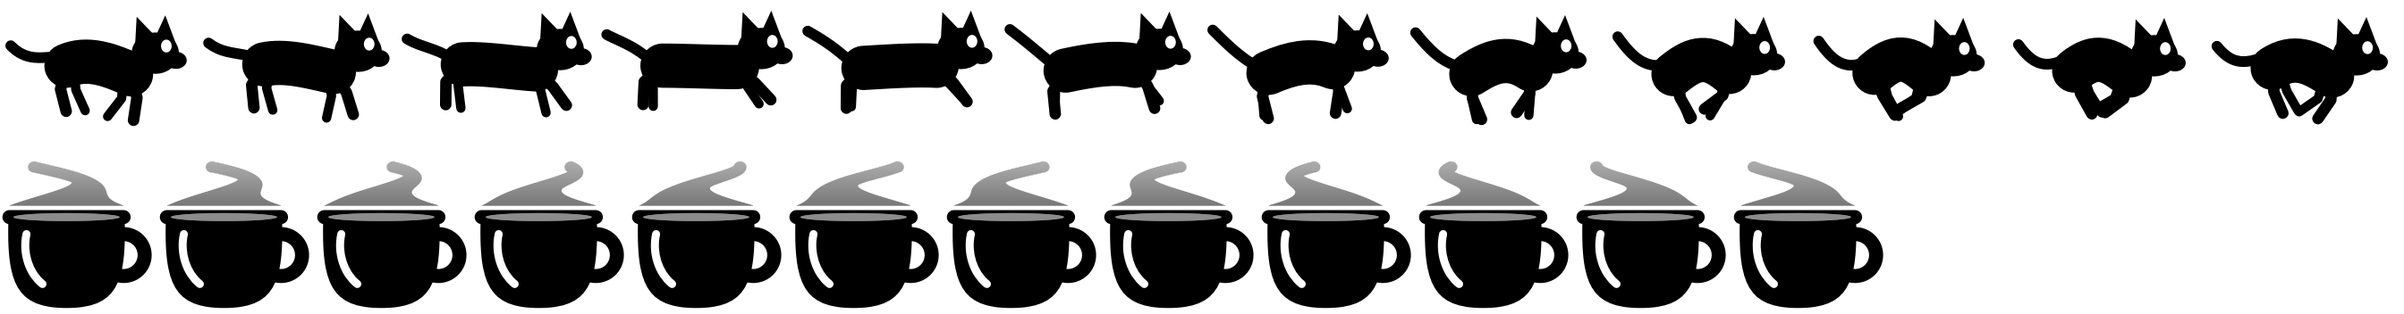
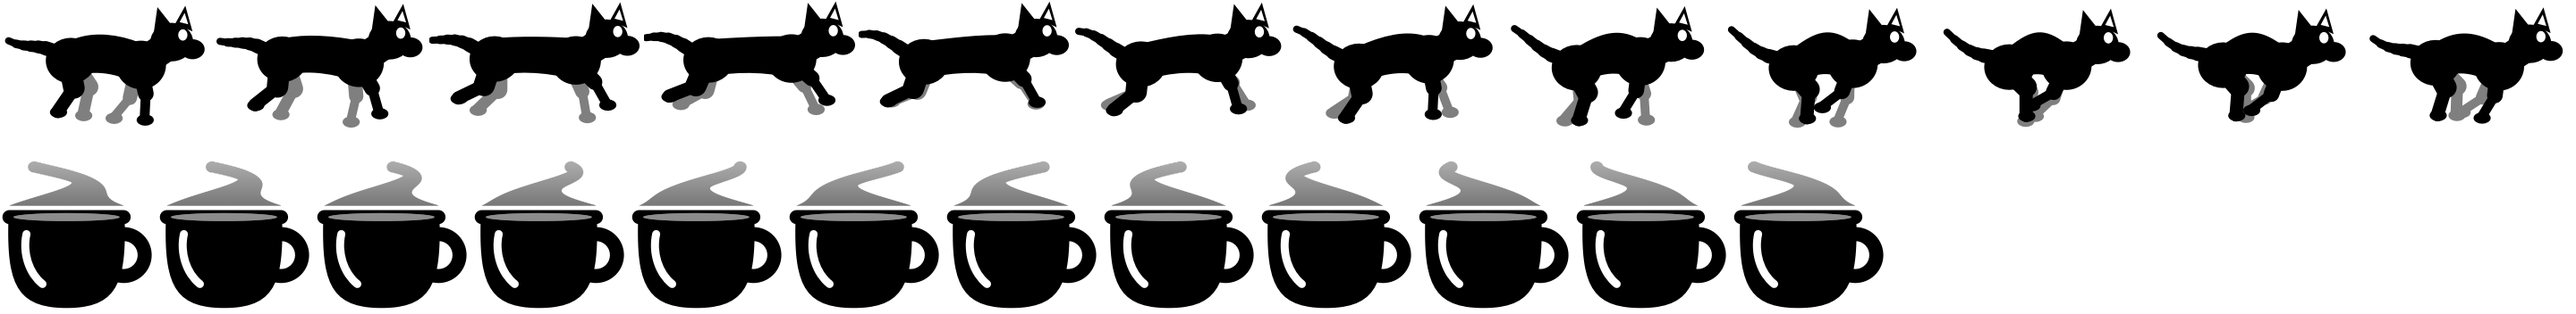
Release 1.1: DMG packaging, bilingual README, redrawn cat
- make_dmg.sh builds dist/MenuRunner-<version>.dmg with an Applications link
- LSMinimumSystemVersion 26.0 (Liquid Glass APIs), so older macOS refuses
  to launch instead of crashing
- README in English with a language switch to README.zh-CN.md
- Cat runner redrawn: chest and haunch shapes, tapered legs with paws,
  tapered tail, uniform translucent far legs

Changed region(s): [[0.0, 0.5, 0.7812, 1.0], [0.0, 0.0312, 1.0, 0.4062], [0.8438, 0.375, 0.875, 0.4062]]

diff --git a/main.swift b/main.swift
@@ -204,66 +204,95 @@ struct Runner {
     static let all: [Runner] = [cat, coffee]
 
     // 奔跑小猫
-    static let cat = Runner(id: "cat", name: "猫|Cat", frameCount: 12, size: NSSize(width: 28, height: 18)) { t in
-        // 奔跑周期：s = +1 身体完全舒展（腾空），s = -1 四腿收拢、拱背
+    static let cat = Runner(id: "cat", name: "猫|Cat", frameCount: 12, size: NSSize(width: 30, height: 18)) { t in
+        // 奔跑周期：s = +1 舒展腾空，s = -1 四腿收拢、拱背
         let s = sin(t), c = cos(t)
-        let lift = 0.5 + 0.5 * s                            // 舒展时离地更高
-        let shoulder = NSPoint(x: 18.3 + s * 0.7, y: 7.6 + lift - c * 0.5)
-        let hip      = NSPoint(x: 9.3 - s * 0.7,  y: 7.8 + lift + c * 0.5)
-        let arch = (1 - s) * 1.3                            // 收拢时拱背
+        let lift = 0.5 + 0.5 * s
+        let hip      = NSPoint(x: 10.0 - s * 0.9, y: 8.4 + lift + c * 0.4)
+        let shoulder = NSPoint(x: 19.6 + s * 0.9, y: 8.6 + lift - c * 0.4)
+        let arch = (1 - s) * 1.1
 
-        // 腿：大腿 + 小腿 + 爪，dir 决定膝盖朝向
-        func leg(_ root: NSPoint, _ angle: Double, knee bend: Double, width: CGFloat) {
-            let a1 = angle, a2 = angle + bend
-            let k = NSPoint(x: root.x + sin(a1) * 3.4, y: root.y - cos(a1) * 3.4)
-            var f = NSPoint(x: k.x + sin(a2) * 3.2, y: k.y - cos(a2) * 3.2)
-            f.y = max(0.9, f.y)
-            strokeLine([root, k, f], width)
+        // 粗细渐变的线（腿、尾巴）：沿折线逐段变细，圆头相接
+        func tapered(_ pts: [NSPoint], _ widths: [CGFloat]) {
+            for i in 0..<(pts.count - 1) {
+                let p = NSBezierPath()
+                p.lineCapStyle = .round
+                p.lineWidth = widths[i]
+                p.move(to: pts[i]); p.line(to: pts[i + 1]); p.stroke()
+            }
         }
-        // 前腿：舒展时向前伸，收拢时向后收，膝盖向后弯
-        func frontAngle(_ p: Double) -> Double { sin(p) * 0.6 + 0.25 }
-        func backAngle(_ p: Double) -> Double { -sin(p) * 0.6 - 0.25 }
-        let fa = frontAngle(t), fb = frontAngle(t - 0.6)
-        let ba = backAngle(t), bb = backAngle(t - 0.6)
-        // 远侧的腿细一点，制造前后层次
-        leg(NSPoint(x: shoulder.x - 1, y: shoulder.y), fb, knee: -0.5 * (1 - sin(t - 0.6)) * 0.6 - 0.1, width: 1.3)
-        leg(NSPoint(x: hip.x + 1, y: hip.y), bb, knee: 0.5 + 0.3 * sin(t - 0.6), width: 1.3)
+        // 腿：大腿粗 → 小腿细 → 小爪
+        func leg(_ root: NSPoint, thigh a1: Double, shin a2: Double, len: (Double, Double), w: CGFloat, far: Bool) {
+            let k = NSPoint(x: root.x + sin(a1) * len.0, y: root.y - cos(a1) * len.0)
+            var f = NSPoint(x: k.x + sin(a2) * len.1, y: k.y - cos(a2) * len.1)
+            f.y = max(1.0, f.y)
+            NSColor.black.withAlphaComponent(far ? 0.55 : 1).setStroke()
+            NSColor.black.withAlphaComponent(far ? 0.55 : 1).setFill()
+            tapered([root, k, f], [w, w * 0.62])
+            NSBezierPath(ovalIn: NSRect(x: f.x - 1.1, y: f.y - 0.9, width: 2.4, height: 1.6)).fill()   // 爪
+            NSColor.black.setStroke(); NSColor.black.setFill()
+        }
+        // 前腿：肩部向前伸 / 向后收，肘在下，腕部略向后折
+        func front(_ p: Double) -> (Double, Double) { let a = 0.2 + sin(p) * 0.65; return (a, a - 0.25 - 0.35 * max(0, -sin(p))) }
+        // 后腿：大腿向前收 / 向后蹬，跗关节向后折（猫腿特征）
+        func back(_ p: Double) -> (Double, Double) { let a = -0.15 - sin(p) * 0.6; return (a + 0.35, a - 0.45) }
 
-        // 身体：沿脊柱的粗曲线，可伸缩可拱背
-        let spine = NSBezierPath()
-        spine.lineWidth = 6.2; spine.lineCapStyle = .round
-        spine.move(to: hip)
-        spine.curve(to: shoulder,
-                    controlPoint1: NSPoint(x: hip.x + 3, y: hip.y + arch),
-                    controlPoint2: NSPoint(x: shoulder.x - 3, y: shoulder.y + arch))
-        spine.stroke()
+        // 远侧两条腿（半透明，做出前后层次）
+        let ff = front(t - 0.7), bf = back(t - 0.7)
+        let cg = NSGraphicsContext.current!.cgContext
+        cg.setAlpha(0.5)
+        cg.beginTransparencyLayer(auxiliaryInfo: nil)
+        leg(NSPoint(x: shoulder.x - 0.6, y: shoulder.y - 0.6), thigh: ff.0, shin: ff.1, len: (3.9, 3.6), w: 2.0, far: false)
+        leg(NSPoint(x: hip.x + 0.4, y: hip.y - 0.4), thigh: bf.0, shin: bf.1, len: (3.7, 4.0), w: 2.6, far: false)
+        cg.endTransparencyLayer()
+        cg.setAlpha(1)
 
-        // 近侧的腿
-        leg(shoulder, fa, knee: -0.5 * (1 - s) * 0.6 - 0.1, width: 1.6)
-        leg(hip, ba, knee: 0.5 + 0.3 * s, width: 1.6)
+        // 尾巴：根部粗、尾尖细，S 形甩动
+        var tail: [NSPoint] = []
+        let tb = NSPoint(x: hip.x - 2.6, y: hip.y + 1.6)
+        for i in 0...6 {
+            let u = Double(i) / 6
+            tail.append(NSPoint(x: tb.x - u * 6.2,
+                                y: tb.y + u * 2.6 + sin(t - u * 2.2) * 1.5 * u))
+        }
+        tapered(tail, [2.0, 1.8, 1.6, 1.4, 1.2, 1.0])
 
-        // 头：跟着肩膀走，落地时轻轻点头
-        let hc = NSPoint(x: shoulder.x + 3.4, y: shoulder.y + 2.6 + c * 0.35)
-        NSBezierPath(ovalIn: NSRect(x: hc.x - 3.3, y: hc.y - 2.9, width: 6.6, height: 5.8)).fill()
-        // 吻部
-        NSBezierPath(ovalIn: NSRect(x: hc.x + 1.4, y: hc.y - 2.2, width: 3.0, height: 2.4)).fill()
-        // 耳朵（略向后倒，有奔跑感）
+        // 身体：臀部 + 胸腔两团，中间收腰；背部可拱起
+        NSBezierPath(ovalIn: NSRect(x: hip.x - 3.6, y: hip.y - 3.0, width: 7.0, height: 6.4)).fill()
+        NSBezierPath(ovalIn: NSRect(x: shoulder.x - 3.4, y: shoulder.y - 3.2, width: 7.0, height: 6.8)).fill()
+        let torso = NSBezierPath()
+        torso.move(to: NSPoint(x: hip.x, y: hip.y + 3.1))
+        torso.curve(to: NSPoint(x: shoulder.x, y: shoulder.y + 3.3),
+                    controlPoint1: NSPoint(x: hip.x + 3, y: hip.y + 3.3 + arch),
+                    controlPoint2: NSPoint(x: shoulder.x - 3, y: shoulder.y + 3.4 + arch))
+        torso.line(to: NSPoint(x: shoulder.x, y: shoulder.y - 2.6))
+        torso.curve(to: NSPoint(x: hip.x, y: hip.y - 2.2),                       // 腹部微微上收
+                    controlPoint1: NSPoint(x: shoulder.x - 3, y: shoulder.y - 1.6 + arch * 0.5),
+                    controlPoint2: NSPoint(x: hip.x + 3, y: hip.y - 1.4 + arch * 0.5))
+        torso.close(); torso.fill()
+
+        // 头：圆脑袋 + 吻部 + 竖起的耳朵，跟着肩膀点头
+        let hc = NSPoint(x: shoulder.x + 4.4, y: shoulder.y + 3.0 + c * 0.3)
+        let neck = NSBezierPath()
+        neck.lineWidth = 4.2; neck.lineCapStyle = .round
+        neck.move(to: NSPoint(x: shoulder.x + 1, y: shoulder.y + 1)); neck.line(to: hc); neck.stroke()
+        NSBezierPath(ovalIn: NSRect(x: hc.x - 3.0, y: hc.y - 2.6, width: 6.0, height: 5.4)).fill()
+        NSBezierPath(ovalIn: NSRect(x: hc.x + 1.2, y: hc.y - 2.3, width: 3.4, height: 2.8)).fill()     // 吻部
         let ears = NSBezierPath()
-        ears.move(to: NSPoint(x: hc.x - 2.8, y: hc.y + 1.4)); ears.line(to: NSPoint(x: hc.x - 2.6, y: hc.y + 5.1)); ears.line(to: NSPoint(x: hc.x - 0.2, y: hc.y + 2.6))
-        ears.move(to: NSPoint(x: hc.x + 0.2, y: hc.y + 2.7)); ears.line(to: NSPoint(x: hc.x + 1.4, y: hc.y + 5.3)); ears.line(to: NSPoint(x: hc.x + 2.9, y: hc.y + 1.3))
+        ears.move(to: NSPoint(x: hc.x - 2.5, y: hc.y + 1.5)); ears.line(to: NSPoint(x: hc.x - 2.0, y: hc.y + 5.0)); ears.line(to: NSPoint(x: hc.x - 0.1, y: hc.y + 2.6))
+        ears.move(to: NSPoint(x: hc.x + 0.5, y: hc.y + 2.7)); ears.line(to: NSPoint(x: hc.x + 1.9, y: hc.y + 5.2)); ears.line(to: NSPoint(x: hc.x + 2.9, y: hc.y + 1.6))
         ears.close(); ears.fill()
-        // 眼睛
-        punch { NSBezierPath(ovalIn: NSRect(x: hc.x + 0.8, y: hc.y + 0.1, width: 1.5, height: 1.8)).fill() }
+        punch {
+            NSBezierPath(ovalIn: NSRect(x: hc.x + 0.9, y: hc.y + 0.3, width: 1.3, height: 1.6)).fill()   // 眼睛
+            let ear = NSBezierPath()   // 耳朵内侧
+            ear.move(to: NSPoint(x: hc.x + 1.1, y: hc.y + 2.9)); ear.line(to: NSPoint(x: hc.x + 1.8, y: hc.y + 4.2)); ear.line(to: NSPoint(x: hc.x + 2.3, y: hc.y + 2.6))
+            ear.close(); ear.fill()
+        }
 
-        // 尾巴：从臀部甩出的 S 形，波浪沿尾巴传递
-        let tail = NSBezierPath()
-        tail.lineWidth = 1.5; tail.lineCapStyle = .round
-        let tb = NSPoint(x: hip.x - 2.2, y: hip.y + 1.2)
-        tail.move(to: tb)
-        tail.curve(to: NSPoint(x: tb.x - 5.6, y: tb.y + 3.2 + sin(t - 1.6) * 1.6),
-                   controlPoint1: NSPoint(x: tb.x - 2.2, y: tb.y + 0.6 + sin(t - 0.6) * 1.4),
-                   controlPoint2: NSPoint(x: tb.x - 3.8, y: tb.y + 1.4 + sin(t - 1.1) * 1.8))
-        tail.stroke()
+        // 近侧两条腿
+        let fn = front(t), bn = back(t)
+        leg(shoulder, thigh: fn.0, shin: fn.1, len: (3.9, 3.6), w: 2.2, far: false)
+        leg(NSPoint(x: hip.x - 0.4, y: hip.y), thigh: bn.0, shin: bn.1, len: (3.7, 4.0), w: 3.0, far: false)
     }
 
     // 一杯咖啡：圆润杯子 + 细节（杯沿、液面、高光），热气从整个杯口升起、往上收细变淡

diff --git a/README.md b/README.md
@@ -1,58 +1,62 @@
+<div align="center">
+
 # MenuRunner
 
-A tiny macOS menu bar app: an animated runner that speeds up with your CPU, plus a Liquid Glass system monitor panel.
+**A tiny macOS menu bar runner + Liquid Glass system monitor**
 
-一个 macOS 菜单栏小工具：菜单栏里有一个会跑的小角色，CPU 越忙跑得越快；点开是一块液态玻璃风格的系统监控面板。
+[![English](https://img.shields.io/badge/Language-English-0A84FF?style=for-the-badge)](README.md)
+[![简体中文](https://img.shields.io/badge/语言-简体中文-E5484D?style=for-the-badge)](README.zh-CN.md)
 
-<p>
-  <img src="docs/panel.png" width="320" alt="Panel">
-  <img src="docs/settings.png" width="210" alt="Settings">
-</p>
+[![Release](https://img.shields.io/github/v/release/HeadmasterEggy/MenuRunner?style=flat-square)](https://github.com/HeadmasterEggy/MenuRunner/releases/latest)
+![macOS](https://img.shields.io/badge/macOS-26%2B-black?style=flat-square&logo=apple)
+![Apple Silicon](https://img.shields.io/badge/Apple%20Silicon-arm64-555?style=flat-square)
 
-![Runners](docs/runners.png)
+<img src="docs/panel.png" width="320" alt="Panel">&nbsp;&nbsp;<img src="docs/settings.png" width="210" alt="Settings">
 
-## Features / 功能
+<img src="docs/runners.png" alt="Runners">
 
-- **Runners**: a galloping cat and a steaming coffee cup, drawn in code as template images (adapts to light/dark menu bar). Speed follows CPU, GPU or memory usage.
-  **Runner**：奔跑的猫、冒热气的咖啡，代码绘制的模板图，自动适配深浅色菜单栏；速度可跟随 CPU / GPU / 内存。
-- **Menu bar metrics** with live mini graphs: CPU, GPU, memory, battery, network, SoC / battery temperature.
-  **菜单栏指标**带动态小图：CPU、GPU、内存、电池、网络、芯片 / 电池温度。
+</div>
+
+## Features
+
+- **Runners** — a galloping cat and a steaming coffee cup, drawn in code as template images that adapt to light / dark menu bars. Their speed follows CPU, GPU or memory usage.
+- **Menu bar metrics with live mini graphs** — CPU, GPU, memory, battery, network, SoC or battery temperature. Choose *Graph + Number*, *Graph only* or *Number only*.
 - **Liquid Glass panel** (`NSPopover` + `NSGlassEffectView`), animated at 60 fps:
-  **液态玻璃面板**，60fps 动画：
-  - Machine spec: model, chip, CPU/GPU cores, memory, disk, macOS version / 本机配置
-  - CPU (System / User / Idle) and GPU history charts / CPU、GPU 历史曲线
-  - Memory breakdown (App / Wired / Compressed) / 内存细分
-  - Storage ring, battery level, health and cycle count / 存储环形图、电量、健康度、循环次数
-  - Temperatures: SoC, battery, SSD / 温度：芯片、电池、SSD
-  - Network upload / download speed / 网络上传下载速度
-- Settings: refresh rate (0.5s / 1s / 2s), °C / °F, 中文 / English, launch at login, open Activity Monitor.
-  设置：刷新频率、温度单位、中英文切换、开机自动启动、打开活动监视器。
+  - Machine spec — model, chip, CPU / GPU cores, memory, disk, macOS version
+  - CPU (System / User / Idle) and GPU history charts
+  - Memory breakdown (App / Wired / Compressed)
+  - Storage ring, battery level, health and cycle count
+  - Temperatures — SoC, battery, SSD
+  - Network upload / download speed
+- **Settings** — refresh rate (0.5 s / 1 s / 2 s), °C / °F, English / 简体中文, launch at login, open Activity Monitor.
 
-## Requirements / 环境
+## Install
 
-- macOS 26 or later (Liquid Glass APIs), Apple Silicon
-- Xcode Command Line Tools (`swiftc`)
+1. Download `MenuRunner-x.y.dmg` from [Releases](https://github.com/HeadmasterEggy/MenuRunner/releases/latest).
+2. Open the DMG and drag **MenuRunner** into **Applications**.
+3. The app is not notarized, so macOS blocks it on first launch. Either:
+   - open **System Settings → Privacy & Security** and click **Open Anyway**, or
+   - run `xattr -dr com.apple.quarantine /Applications/MenuRunner.app`
 
-## Build / 构建
+Left-click the menu bar icon to open the panel; right-click it (or use the gear button) for settings.
+
+## Build from source
+
+Requires macOS 26+ on Apple Silicon and the Xcode Command Line Tools.
 
 ```sh
-./build.sh
+./build.sh      # compile, ad-hoc sign, install to ~/Applications
+./make_dmg.sh   # build dist/MenuRunner-<version>.dmg
 ```
 
-This compiles `main.swift` into `MenuRunner.app`, signs it ad-hoc, and installs it to `~/Applications`.
-Then open `~/Applications/MenuRunner.app`. Left-click the menu bar icon for the panel, right-click (or the gear button) for settings.
-
-会编译出 `MenuRunner.app`，做本地签名并安装到 `~/Applications`。左键点菜单栏图标打开面板，右键（或面板里的齿轮）打开设置。
-
-Debug helpers / 调试命令:
+Debug helpers:
 
 ```sh
 MenuRunner.app/Contents/MacOS/MenuRunner --stats            # print all readings
 MenuRunner.app/Contents/MacOS/MenuRunner --preview out.png  # export runner frames
 ```
 
-## Notes / 说明
+## Notes
 
-- SoC / SSD temperatures are read from the system HID temperature sensors through a private IOKit API (the same approach Stats / iStat use). No root needed, but it may change in future macOS versions — the panel shows `--` if unavailable.
-  芯片 / SSD 温度通过 IOKit 私有接口读取系统温度传感器，无需管理员权限，但未来 macOS 版本可能变化，读不到时显示 `--`。
-- CPU / GPU / memory / battery / disk / network use public APIs (`host_statistics`, IORegistry, `getifaddrs`, IOKit power sources).
+- SoC / SSD temperatures come from the system HID temperature sensors through a private IOKit API (the same approach Stats and iStat use). No root needed, but future macOS versions may change it; the panel shows `--` when unavailable.
+- Everything else uses public APIs: `host_statistics`, IORegistry, `getifaddrs` and IOKit power sources.

diff --git a/README.zh-CN.md b/README.zh-CN.md
@@ -1,0 +1,62 @@
+<div align="center">
+
+# MenuRunner
+
+**macOS 菜单栏小跑者 + 液态玻璃系统监控**
+
+[![English](https://img.shields.io/badge/Language-English-0A84FF?style=for-the-badge)](README.md)
+[![简体中文](https://img.shields.io/badge/语言-简体中文-E5484D?style=for-the-badge)](README.zh-CN.md)
+
+[![Release](https://img.shields.io/github/v/release/HeadmasterEggy/MenuRunner?style=flat-square)](https://github.com/HeadmasterEggy/MenuRunner/releases/latest)
+![macOS](https://img.shields.io/badge/macOS-26%2B-black?style=flat-square&logo=apple)
+![Apple Silicon](https://img.shields.io/badge/Apple%20Silicon-arm64-555?style=flat-square)
+
+<img src="docs/panel.png" width="320" alt="面板">&nbsp;&nbsp;<img src="docs/settings.png" width="210" alt="设置">
+
+<img src="docs/runners.png" alt="Runner">
+
+</div>
+
+## 功能
+
+- **Runner**：奔跑的猫、冒热气的咖啡，用代码绘制的模板图，自动适配深浅色菜单栏；速度可以跟随 CPU、GPU 或内存占用。
+- **菜单栏指标 + 动态小图**：CPU、GPU、内存、电池、网络、芯片或电池温度；可选「图表 + 数字」「仅图表」「仅数字」。
+- **液态玻璃面板**（`NSPopover` + `NSGlassEffectView`），60fps 动画：
+  - 本机配置：机型、芯片、CPU / GPU 核心数、内存、硬盘、系统版本
+  - CPU（System / User / Idle）和 GPU 历史曲线
+  - 内存细分（App / 联动 / 压缩）
+  - 存储环形图、电量、电池健康度、循环次数
+  - 温度：芯片、电池、SSD
+  - 网络上传 / 下载速度
+- **设置**：刷新频率（0.5 / 1 / 2 秒）、°C / °F、简体中文 / English、开机自动启动、打开活动监视器。
+
+## 安装
+
+1. 在 [Releases](https://github.com/HeadmasterEggy/MenuRunner/releases/latest) 下载 `MenuRunner-x.y.dmg`。
+2. 打开 DMG，把 **MenuRunner** 拖进 **应用程序**。
+3. 应用没有经过 Apple 公证，第一次打开会被拦截。任选一种方式放行：
+   - 打开 **系统设置 → 隐私与安全性**，点 **仍要打开**；或
+   - 在终端运行 `xattr -dr com.apple.quarantine /Applications/MenuRunner.app`
+
+左键点菜单栏图标打开面板；右键（或面板里的齿轮按钮）打开设置。
+
+## 从源码构建
+
+需要 Apple 芯片、macOS 26 以上，以及 Xcode 命令行工具。
+
+```sh
+./build.sh      # 编译、本地签名、安装到 ~/Applications
+./make_dmg.sh   # 生成 dist/MenuRunner-<版本>.dmg
+```
+
+调试命令：
+
+```sh
+MenuRunner.app/Contents/MacOS/MenuRunner --stats            # 打印所有读数
+MenuRunner.app/Contents/MacOS/MenuRunner --preview out.png  # 导出 runner 帧图
+```
+
+## 说明
+
+- 芯片 / SSD 温度通过 IOKit 私有接口读取系统 HID 温度传感器（Stats、iStat 也是这样做的），不需要管理员权限，但未来 macOS 版本可能变化，读不到时面板显示 `--`。
+- 其余数据都用公开接口：`host_statistics`、IORegistry、`getifaddrs`、IOKit 电源信息。
